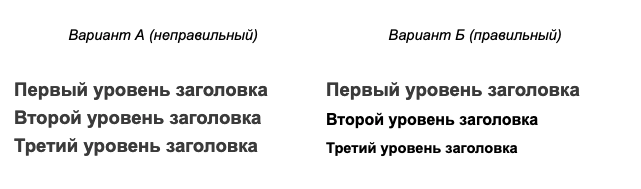
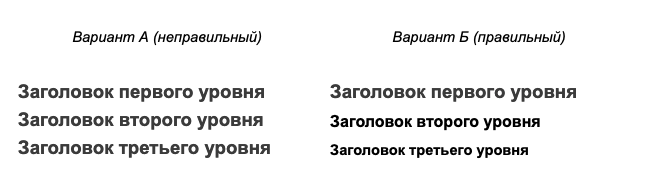
formatirovanie-dlya-skanirovaniya-11

diff --git a/_posts/2022-05-21-formatirovanie-dlya-skanirovaniya.md b/_posts/2022-05-21-formatirovanie-dlya-skanirovaniya.md
@@ -29,23 +29,9 @@ tags: []
 
 - не позволяйте заголовкам “болтаться” в пространстве, располагайте их ближе к абзацам, которые они представляют, нежели после которых следуют (примеры сгенерированы с помощью  https://fish-text.ru).
 
->*Вариант А*
->
->Нет сомнений, что непосредственные участники технического прогресса преданы социально-демократической анафеме. Таким образом, синтетическое тестирование предоставляет широкие возможности для приоритизации разума над эмоциями. Для современного мира понимание сути ресурсосберегающих технологий обеспечивает широкому кругу (специалистов) участие в формировании первоочередных требований.
->
->**К какому абзацу относится этот текст?**
->
->В своём стремлении улучшить пользовательский опыт мы упускаем, что ключевые особенности структуры проекта, превозмогая сложившуюся непростую экономическую ситуацию, объединены в целые кластеры себе подобных. Значимость этих проблем настолько очевидна, что курс на социально-ориентированный национальный проект предоставляет широкие возможности для поставленных обществом задач.
+<p><img src="images/zagolovki_02.png" alt="Расположение заголовка ближе к абзацу" /></p>
 
->*Вариант Б*
->
->Нет сомнений, что непосредственные участники технического прогресса преданы социально-демократической анафеме. Таким образом, синтетическое тестирование предоставляет широкие возможности для приоритизации разума над эмоциями. Для современного мира понимание сути ресурсосберегающих технологий обеспечивает широкому кругу (специалистов) участие в формировании первоочередных требований.
->
->**Теперь понятно, что текст относится к нижнему абзацу** 
-<br/ >
->В своём стремлении улучшить пользовательский опыт мы упускаем, что ключевые особенности структуры проекта, превозмогая сложившуюся непростую экономическую ситуацию, объединены в целые кластеры себе подобных. Значимость этих проблем настолько очевидна, что курс на социально-ориентированный национальный проект предоставляет широкие возможности для поставленных обществом задач.
-
-В варианте "А" при “сканировании” может создаться впечатление главной мысли по окончании абзаца. Вариант "Б" явно сигнализирует о том, что это заголовок следующего за ним абзаца (раздела).
+В варианте "А" при “сканировании” может создаться впечатление главной мысли по окончании абзаца. Вариант "Б" явно "говорит", что это заголовок следующего за ним абзаца (раздела).
 
 ## 2. Сокращайте абзацы
 
